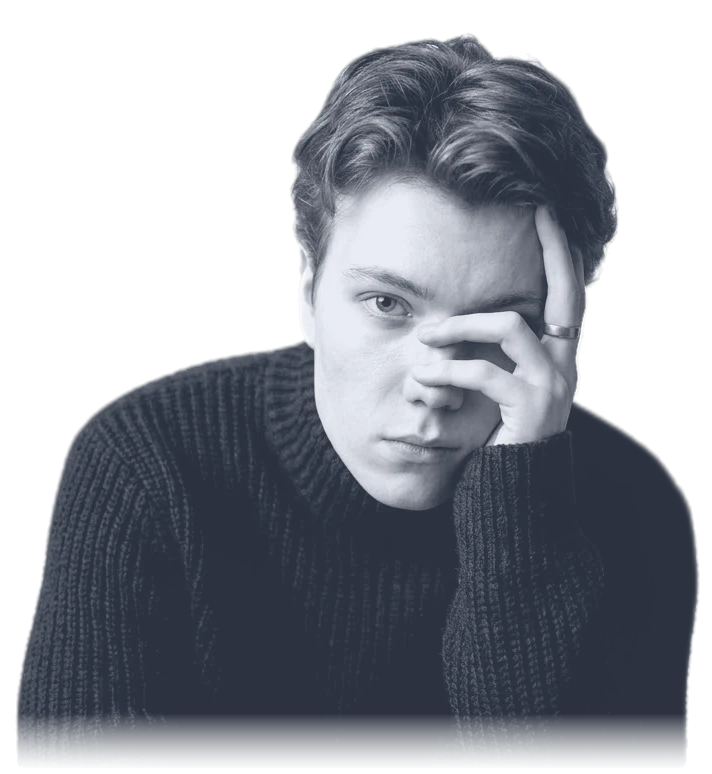
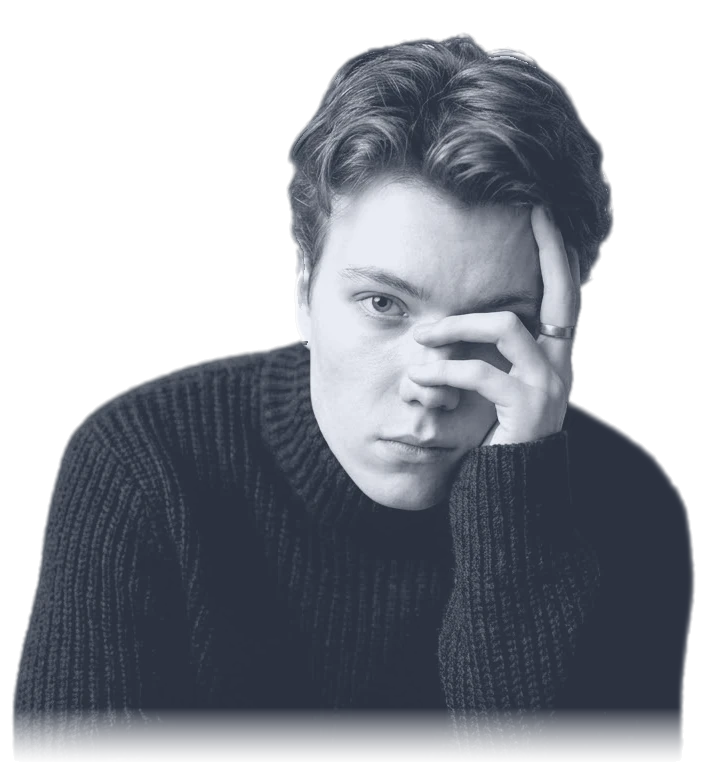
Светлая обводка по контуру волос убрана
Владелец видел светлую кайму по волосам справа — остаток прежнего фона. Причина
оказалась не в форме маски, а в яркости: оценка фона местами занижена, и
вычитание примеси оставляло краевой пиксель светлее, чем он есть. Теперь кромке
запрещено быть ярче ближней внутренности силуэта — взяться ей там неоткуда.
Внутренность берётся минимумом по окну 9x9 среди уверенно непрозрачных пикселей,
запас `RIM_HEADROOM` десять единиц оставляет живой перепад на границе.

Ярких пикселей в кромке стало 829 против 1137, и форма силуэта не изменилась.
Два очевидных способа проверены и отвергнуты: расширение `BG_TOL` до 60 даёт
1041, лишняя эрозия — 1026, и оба вдобавок подъедают тонкие пряди. Потолок
трогает только яркость.

Попутно выяснилось, что конвейер портрета вообще не запускался: он требовал
OpenCV, которого в окружении нет. Все одиннадцать вызовов переведены на scipy и
PIL — `mirror` у scipy это то же краевое условие, что `BORDER_REFLECT_101` у
OpenCV. `scale()` отдаёт копию, а не представление поверх PIL: то приходит
только для чтения, а маску вызывающий код правит на месте.

Из `~/.u2net` пропала портретная модель `u2net_human_seg`, осталась общая
`u2net`. Скрипт берёт любую из двух: на снимке с серым фоном они дают один и тот
же результат — 1146 ярких пикселей кромки против 1137.

Отдельно проверен и отвергнут снимок на чёрном фоне, присланный владельцем:
кайма на нём действительно невозможна, но вместе с ней пропадает и силуэт.
[…]

diff --git a/tools/prep_portrait.py b/tools/prep_portrait.py
@@ -4,10 +4,10 @@
 
 Результат — assets/img/portrait.webp с прозрачным фоном.
 
-Фон снимает u2net_human_seg — та же сеть, что внутри rembg, но запускается
-напрямую через onnxruntime, чтобы не тянуть в окружение сам rembg. Модель
-берётся из ~/.u2net; если её там нет, скрипт честно об этом говорит и ничего
-не делает.
+Фон снимает u2net — сеть из ~/.u2net, запускается напрямую через onnxruntime,
+чтобы не тянуть в окружение сам rembg. Берётся портретная `u2net_human_seg`,
+а если её там нет — общая `u2net`: на снимке с человеком она справляется не
+хуже. Если нет ни одной, скрипт честно об этом говорит и ничего не делает.
 
 Дальше с края снимается кайма прежнего фона: фон на снимке не белый, а серый
 с градиентом сверху вниз, поэтому его яркость оценивается отдельно в каждой
@@ -24,19 +24,68 @@ from __future__ import annotations
 import sys
 from pathlib import Path
 
-import cv2
 import numpy as np
 import onnxruntime as ort
 from PIL import Image
+from scipy import ndimage
 
 ROOT = Path(__file__).resolve().parent.parent
 OUT = ROOT / "assets" / "img" / "portrait.webp"
-MODEL = Path.home() / ".u2net" / "u2net_human_seg.onnx"
+# Сначала ищем портретную сеть, потом общую: в ~/.u2net может лежать любая из
+# двух, и на снимке с человеком общая справляется не хуже.
+MODELS = (
+    Path.home() / ".u2net" / "u2net_human_seg.onnx",
+    Path.home() / ".u2net" / "u2net.onnx",
+)
+
+
+def model_path() -> Path:
+    for path in MODELS:
+        if path.exists():
+            return path
+    raise SystemExit("Не найдена модель: " + " или ".join(str(p) for p in MODELS))
+
+
+# Ниже — то, ради чего раньше тянулся OpenCV. Он в окружении не стоит, а всё
+# нужное есть в scipy и PIL, поэтому зависимость снята. `mirror` у scipy — это
+# то же краевое условие, что BORDER_REFLECT_101 у OpenCV по умолчанию.
+def box_blur(a: np.ndarray, window: int) -> np.ndarray:
+    return ndimage.uniform_filter(a, size=window, mode="mirror")
+
+
+def gauss(a: np.ndarray, sigma: float) -> np.ndarray:
+    return ndimage.gaussian_filter(a, sigma=sigma, mode="mirror")
+
+
+def erode(a: np.ndarray, iterations: int = 1) -> np.ndarray:
+    """Эрозия плоским элементом 3x3 — это минимум по окну 3x3."""
+    for _ in range(iterations):
+        a = ndimage.minimum_filter(a, size=3, mode="nearest")
+    return a
+
+
+def scale(a: np.ndarray, width: int, height: int, smooth: bool) -> np.ndarray:
+    """`smooth=True` — усреднение по площади (для уменьшения), иначе билинейно.
+
+    Возвращается копия, а не представление поверх PIL: то приходит только для
+    чтения, а маску вызывающий код правит на месте.
+    """
+    mode = Image.BOX if smooth else Image.BILINEAR
+    return np.array(
+        Image.fromarray(a.astype(np.float32), mode="F").resize((width, height), mode),
+        dtype=np.float32,
+    )
+
+
+def to_gray(rgb: np.ndarray) -> np.ndarray:
+    """Те же веса, что у OpenCV в RGB2GRAY."""
+    return (rgb[:, :, 0] * 0.299 + rgb[:, :, 1] * 0.587 + rgb[:, :, 2] * 0.114).astype(np.float32)
 
 TARGET_W = 760          # ширина итогового файла, px (показывается вдвое меньше)
 ASPECT = 0.92           # ширина к высоте кадра
 HEAD_RATIO = 2.05       # высота кадра в высотах головы
 BG_TOL = 26.0           # насколько близко к фону, чтобы считать пиксель фоном
+RIM_HEADROOM = 10.0     # насколько кромке позволено быть ярче внутренности
 SHADOW = (0x1b, 0x22, 0x30)   # куда уходят тени — синевато-тёмный из палитры
 HIGHLIGHT = (0xe9, 0xec, 0xf4)  # куда уходят света
 # Растворяется только низ, и совсем немного: там силуэт обрезан краем кадра.
@@ -61,8 +110,8 @@ def background(gray: np.ndarray, mask: np.ndarray) -> np.ndarray:
     filled = np.zeros_like(gray)
 
     for window in (51, 121, 241, 481):
-        num = cv2.blur(value, (window, window))
-        den = cv2.blur(known, (window, window))
+        num = box_blur(value, window)
+        den = box_blur(known, window)
         fresh = (den > 1e-4) & (filled < 0.5)
         out[fresh] = num[fresh] / den[fresh]
         filled[fresh] = 1.0
@@ -70,13 +119,12 @@ def background(gray: np.ndarray, mask: np.ndarray) -> np.ndarray:
     if (filled < 0.5).any():
         out[filled < 0.5] = float(gray[known > 0.5].mean()) if known.any() else 200.0
 
-    return cv2.GaussianBlur(out, (0, 0), 12)
+    return gauss(out, 12)
 
 
 def cutout(path: Path) -> tuple[np.ndarray, np.ndarray]:
     """Возвращает картинку в оттенках серого и маску прозрачности."""
-    if not MODEL.exists():
-        raise SystemExit(f"Не найдена модель {MODEL}")
+    model = model_path()
 
     source = Image.open(path).convert("RGB")
     original = np.array(source)
@@ -87,33 +135,46 @@ def cutout(path: Path) -> tuple[np.ndarray, np.ndarray]:
     for channel, mean, std in ((0, 0.485, 0.229), (1, 0.456, 0.224), (2, 0.406, 0.225)):
         normalized[:, :, channel] = (small[:, :, channel] - mean) / std
 
-    session = ort.InferenceSession(str(MODEL), providers=["CPUExecutionProvider"])
+    session = ort.InferenceSession(str(model), providers=["CPUExecutionProvider"])
     raw = session.run(None, {
         session.get_inputs()[0].name: normalized.transpose(2, 0, 1)[None].astype(np.float32),
     })[0][0][0]
 
     span = raw.max() - raw.min()
     mask = (raw - raw.min()) / (span if span else 1.0)
-    mask = cv2.resize(mask, (original.shape[1], original.shape[0]), interpolation=cv2.INTER_LINEAR)
+    mask = scale(mask, original.shape[1], original.shape[0], smooth=False)
 
-    gray = cv2.cvtColor(original, cv2.COLOR_RGB2GRAY).astype(np.float32)
+    gray = to_gray(original)
     bg = background(gray, mask)
 
     # Кайма. Сеть оставляет по контуру полупрозрачные пиксели, и в них сидит
     # прежний фон: волосы и плечи обводило светлым ореолом. Гасим те краевые
     # пиксели, что похожи на здешний фон; глубину силуэта не трогаем, иначе
     # выело бы светлое лицо.
-    core = cv2.erode((mask > 0.6).astype(np.float32), np.ones((3, 3), np.uint8), iterations=4)
-    core = cv2.GaussianBlur(core, (0, 0), 2.0)
+    core = erode((mask > 0.6).astype(np.float32), iterations=4)
+    core = gauss(core, 2.0)
     similar = np.clip(1.0 - np.abs(gray - bg) / BG_TOL, 0, 1)
     mask = np.clip(mask * (1.0 - similar * (1.0 - core)), 0, 1)
 
-    mask = cv2.erode(mask, np.ones((3, 3), np.uint8), iterations=1)
-    mask = np.clip(cv2.GaussianBlur(mask, (0, 0), 1.0), 0, 1)
+    mask = erode(mask, iterations=1)
+    mask = np.clip(gauss(mask, 1.0), 0, 1)
 
     # У тех краевых пикселей, что остались, вычитаем примесь фона: они смесь
     # его и силуэта, и без вычитания остаются светлее, чем есть на самом деле.
     lean = np.where(mask > 0.02, (gray - (1 - mask) * bg) / np.maximum(mask, 0.25), gray)
+
+    # Потолок для кромки. Оценка фона не идеальна, и там, где она занижена,
+    # вычитание оставляет краевой пиксель светлее, чем он есть: по контуру волос
+    # это читалось светлой обводкой, и владелец её видел. Ярче ближней
+    # внутренности силуэта кромке быть неоткуда, поэтому просто не даём.
+    # Внутренность берём минимумом по окну 9x9 среди уверенно непрозрачных
+    # пикселей; запас в 10 единиц сохраняет живой перепад на границе, но снимает
+    # ореол. Форму силуэта это не трогает — только яркость, — поэтому тонкие
+    # пряди остаются на месте, чего не даёт ни более широкий BG_TOL, ни лишняя
+    # эрозия: те убирают ореол хуже и вдобавок подъедают контур.
+    inner = ndimage.grey_erosion(np.where(mask > 0.9, lean, 255.0), size=9)
+    rim = (mask > 0.02) & (mask < 0.9)
+    lean = np.where(rim, np.minimum(lean, inner + RIM_HEADROOM), lean)
 
     return np.clip(lean, 0, 255).astype(np.uint8), mask
 
@@ -186,8 +247,8 @@ def main() -> int:
     # Вверх не растягиваем: мыла на портрете быть не должно.
     target_w = min(TARGET_W, gray.shape[1])
     height = round(gray.shape[0] * target_w / gray.shape[1])
-    gray = cv2.resize(gray, (target_w, height), interpolation=cv2.INTER_AREA)
-    mask = cv2.resize(mask, (target_w, height), interpolation=cv2.INTER_AREA)
+    gray = scale(gray, target_w, height, smooth=True)
+    mask = scale(mask, target_w, height, smooth=True)
 
     if FADE > 0:
         rows = max(1, int(height * FADE))

diff --git a/PROJECT_SPEC.md b/PROJECT_SPEC.md
@@ -1,7 +1,7 @@
 # Контракт проекта — единый источник правды
 
 - **Проект:** `resume` — страница-резюме Алексея Коняева
-- **Версия контракта:** `4.21`
+- **Версия контракта:** `4.22`
 - **Статус:** `FROZEN`
 - **Последняя правка:** `2026-09-02`
 
@@ -220,7 +220,7 @@
 | Поле символов | Canvas 2D | Несколько тысяч знаков в DOM — мусор в разметке и постоянные перерисовки макета |
 | Данные | `data/resume.js` (`window.RESUME`) | Обычный тег `<script>` вместо `fetch` — иначе локальное открытие ломается о CORS |
 | Перевод | Пары `{ ru, en }` в одном файле | Два отдельных файла разъезжаются по датам и цифрам при первой же правке |
-| Вырезание фона | u2net_human_seg через onnxruntime | Модель уже лежит в `~/.u2net`; ставить rembg ради одного вызова незачем |
+| Вырезание фона | u2net через onnxruntime | Модель берётся из `~/.u2net`: сперва портретная `u2net_human_seg`, иначе общая `u2net`. На снимке с серым фоном они дают одно и то же (яркие пиксели кромки 1146 против 1137). Ставить rembg ради одного вызова незачем |
 | Скрипты | Python 3.12, стандартная библиотека | Уже стоит в окружении, зависимостей ставить не нужно |
 | Публикация | GitHub Actions → GitHub Pages | Тот же путь, что у остальных репозиториев владельца |
 | Проверка существ | `tools/check_pet.js` — Node, стандартная библиотека | Глазами их не проверить: в панели предпросмотра нет кадров. Фреймворк не заводился: один файл на `node:vm` зависимостей не добавляет |
@@ -347,3 +347,4 @@ https://api.github.com/repos/{owner}/{repo}` в `scripts/fetch_stats.py`, из
 | 2026-09-02 | 4.19 | Стык подряд идущих работ на шкале выровнен: прозрачная левая кромка в 2 px отодвигает заливку, геометрия по датам не меняется | Владелец |
 | 2026-09-02 | 4.20 | Полоса шкалы опыта поднята с 10 до 16 px: на десяти пикселях предельное скругление не читалось. Четыре правки формулировок в русской версии — тавтология «LLM-моделей», «предотвратив риски», «от рутины на профильные задачи», порядок слов в описании дашбордов | Владелец |
 | 2026-09-02 | 4.21 | Полоса шкалы опыта убавлена с 16 до 12 px: 16 владелец назвал толстым, 12 — точка, где предельное скругление читается, а веса ещё нет | Владелец |
+| 2026-09-02 | 4.22 | Светлая обводка по контуру волос убрана: кромке запрещено быть ярче ближней внутренности силуэта. Конвейеру портрета больше не нужен OpenCV, модель берётся любая из двух | Владелец |
